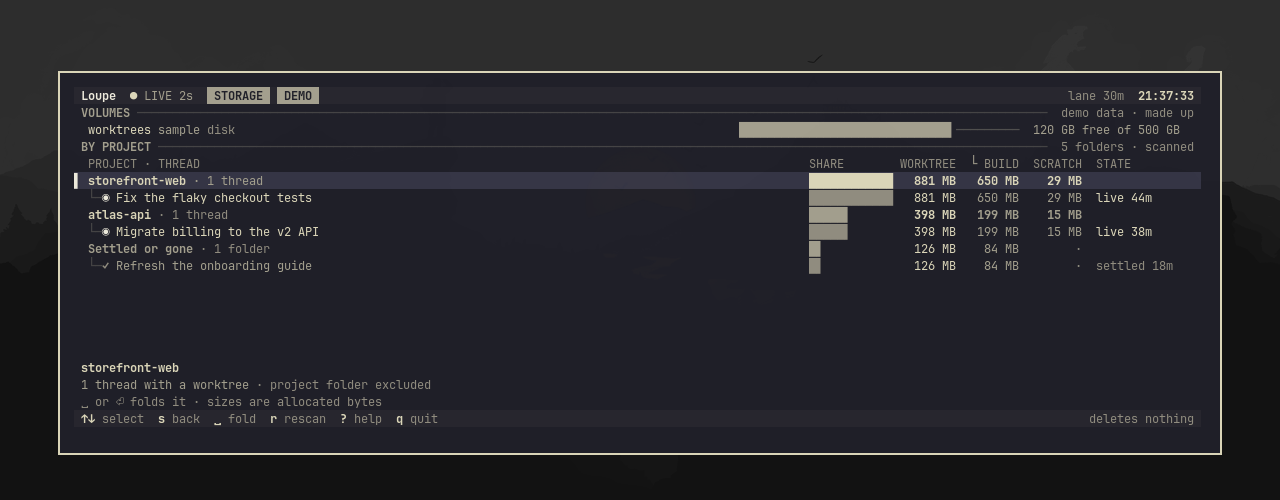
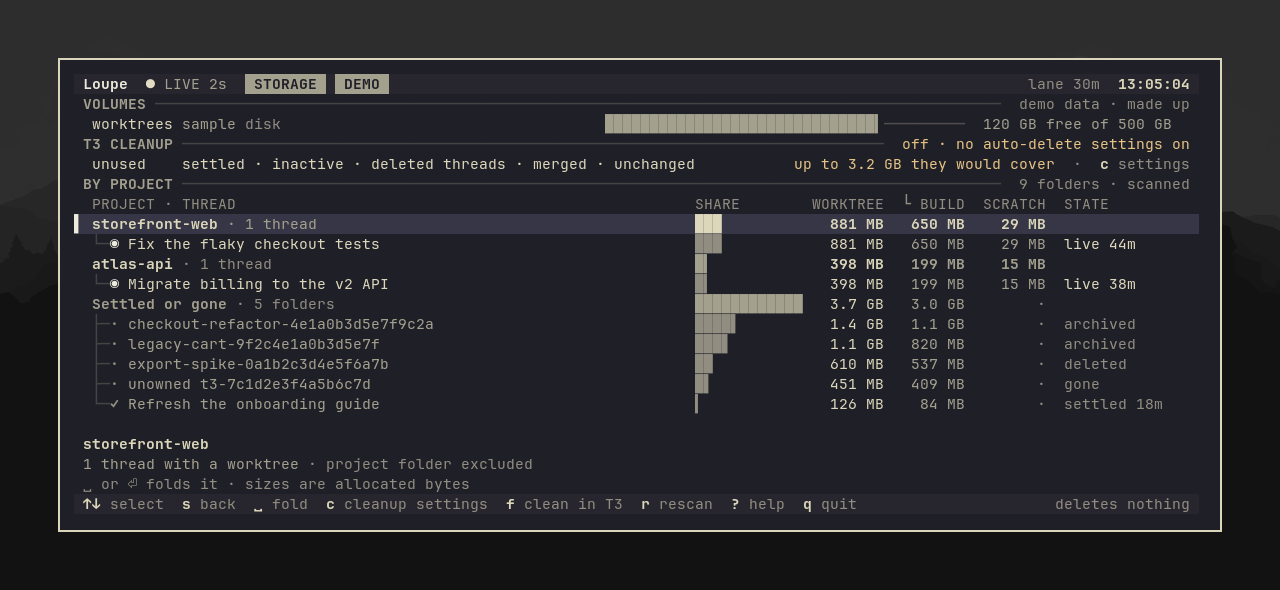
Refresh the Storage screenshot and add the cleanup settings panel
Both captured on --demo in an isolated omabox desktop, Kanagawa theme.

diff --git a/docs/features.md b/docs/features.md
@@ -95,7 +95,9 @@ The short list is in the [README](../README.md). This is the long one.
   line above the footer says how much is left. It identifies temporary space
   backed by memory. The demo uses example data.
 
-![Storage: worktree, build and scratch disk use by project, on demo data](storage.png)
+![Storage: worktree, build and scratch disk use by project, with the T3 CLEANUP band, on demo data](storage.png)
+
+![T3 CLEANUP SETTINGS: each of T3's worktree cleanup settings, yours, and what it would cover, on demo data](storage-cleanup.png)
 
 ## Insights
 
